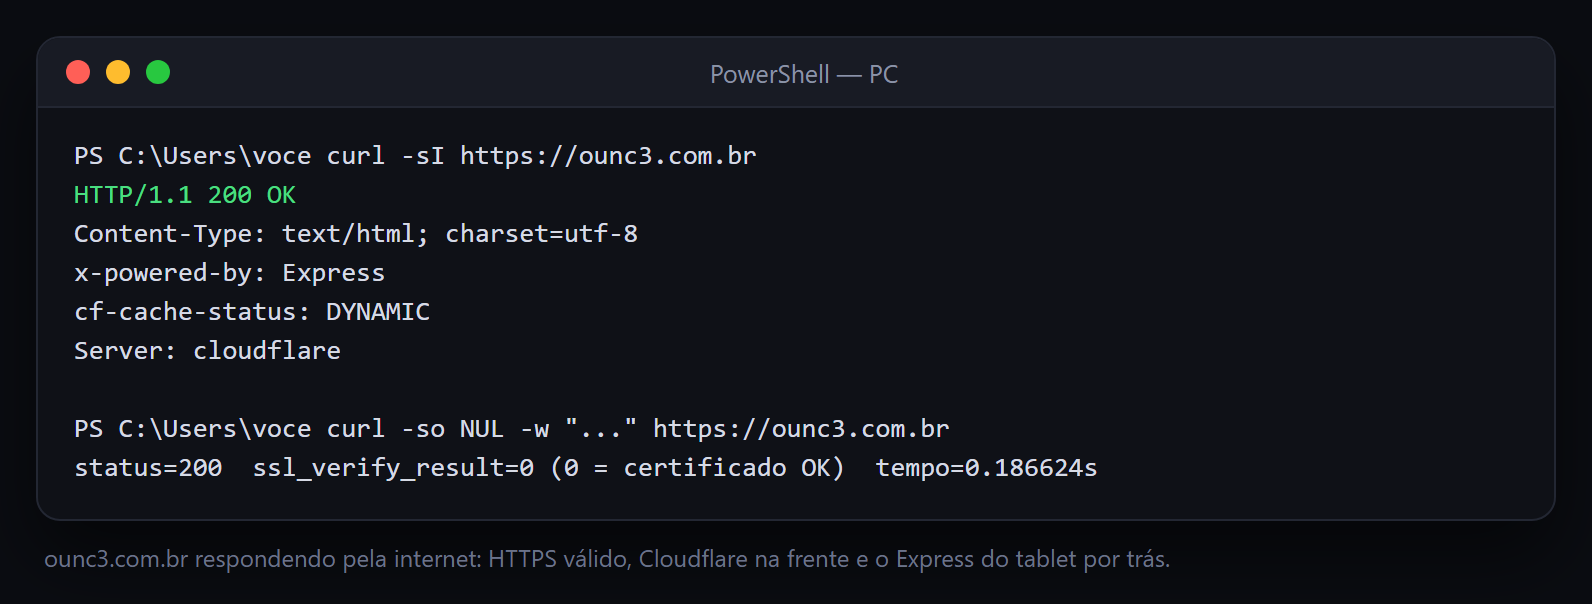
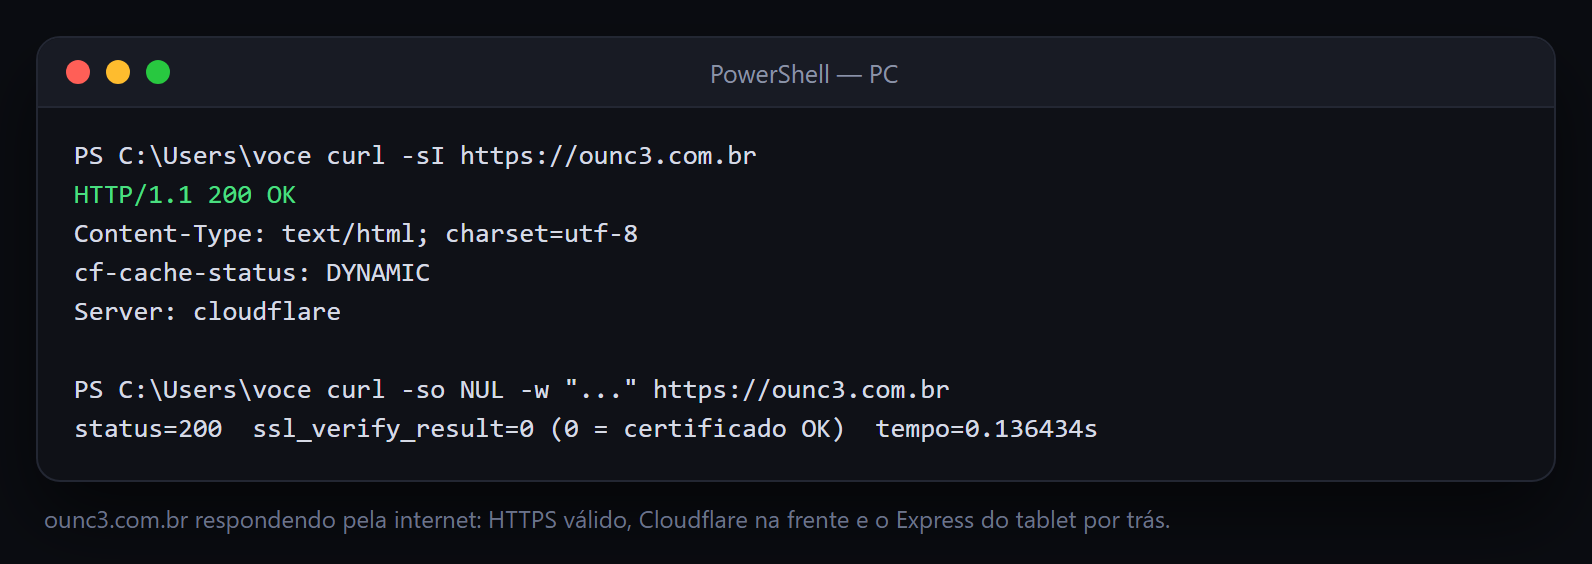
Atualiza os prints com o visual novo do site e dados de 18/11
Prints do ounc3.com.br no visual verde e dourado (desktop e celular, em WebP) e prints de terminal refeitos a partir de saídas novas do servidor, com dados sensíveis mascarados.

diff --git a/README.md b/README.md
@@ -82,11 +82,11 @@ O tablet foi reaproveitado com um conjunto de ferramentas de desenvolvedor:
 
 Hoje ele hospeda **projetos reais**: páginas locais de desenvolvimento, sites de teste e o **[ounc3.com.br](https://ounc3.com.br)**, onde roda o **OunceDown** (ferramenta de download de mídia em Node.js). É a prova de que hardware de entrada esquecido na gaveta pode virar um ambiente de testes útil de verdade.
 
-![ounc3.com.br no ar, servido pelo tablet](docs/prints/13-ounc3-desktop.png)
+![ounc3.com.br no ar, servido pelo tablet](docs/prints/13-ounc3-desktop.webp)
 
-<p align="center"><img src="docs/prints/14-ounc3-celular.png" alt="ounc3.com.br no celular" width="280"></p>
+<p align="center"><img src="docs/prints/14-ounc3-celular.webp" alt="ounc3.com.br no celular" width="280"></p>
 
-![HTTPS válido com a Cloudflare na frente e o Express do tablet por trás](docs/prints/15-https-ounc3.png)
+![HTTPS válido com a Cloudflare na frente do tablet](docs/prints/15-https-ounc3.png)
 
 ---
 
@@ -714,7 +714,7 @@ logs/
 
 ## 📸 9. Prints e evidências
 
-Os prints de terminal foram gerados a partir de **saídas reais** coletadas por SSH no servidor em 17/11/2026, com dados sensíveis mascarados (destacados em rosa: usuário `u0_aXX`, ID do microSD, IDs de conexão e IPs do túnel). Os do site foram capturados direto de `https://ounc3.com.br`. Tudo fica em `docs/prints/`.
+Os prints de terminal foram gerados a partir de **saídas reais** coletadas por SSH no servidor em 18/11/2026 (o teste de download é de 17/11/2026), com dados sensíveis mascarados (destacados em rosa: usuário `u0_aXX`, ID do microSD, IDs de conexão e IPs do túnel). Os do site foram capturados direto de `https://ounc3.com.br`. Tudo fica em `docs/prints/`.
 
 - [x] Sessão `ssh twist` a partir do PowerShell
 - [x] Sistema e versões dos pacotes no Termux
